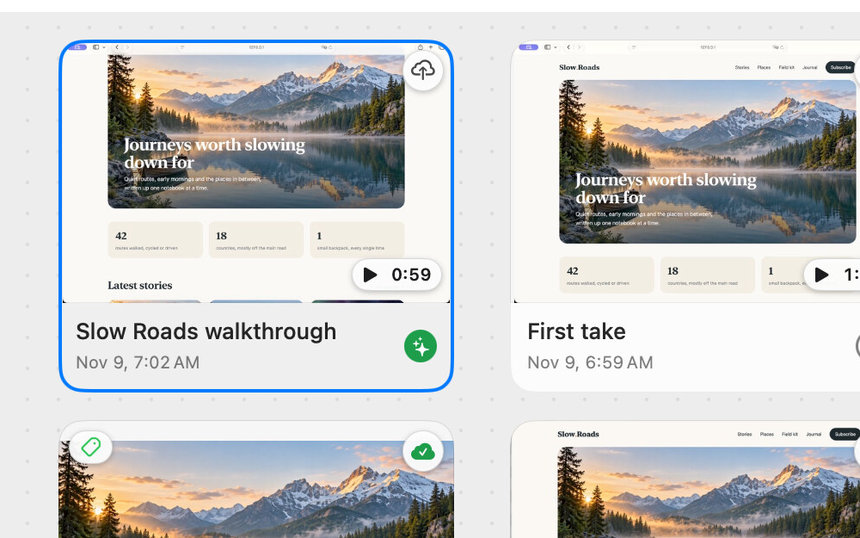
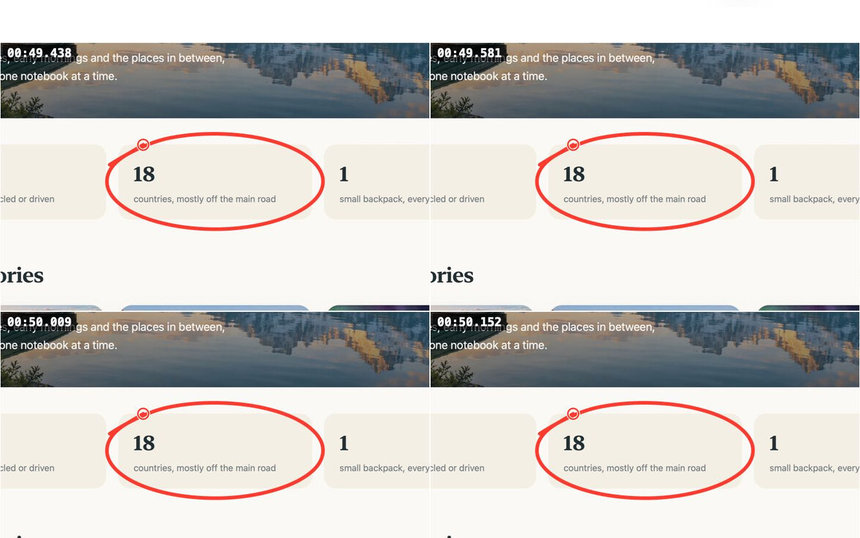
docs: show bug report frames in README gallery

diff --git a/docs/features.md b/docs/features.md
@@ -68,7 +68,7 @@ Opening Sukusho shows the Library; when it starts at login, it stays in the menu
 - **Remove Filler Words and Shorten Pauses:** under the transcript, **Remove Filler Words** counts the "um"s and "uh"s in your transcript's language, previews them struck through, and cuts them all at once ("like", "so" and "you know" only if you turn them on). **Shorten Pauses** cuts silences longer than a second down to a short beat, but leaves any pause in which something happens on screen: a click, a key, a scroll, a pen stroke, the pointer moving, or the picture changing, as when you type. Captions and chapters follow, and one Undo puts everything back.
 - **Output:** export the finished video as MOV, MP4 or GIF, export its audio, or click **Upload** to send it to your Worker and copy the link. Movie exports use HEVC unless you choose H.264; uploads and shares are always H.264, so they play in every browser.
 
-<a href="screenshots/agent-prompt.jpg"><img src="screenshots/thumbs/agent-prompt.jpg" alt="A selected recording with a green Bug Report marker in the Library" width="620"></a>
+<a href="screenshots/agent-prompt.jpg"><img src="screenshots/thumbs/agent-prompt.jpg" alt="Four bug report frames with a red pen loop and ringed pointer" width="620"></a>
 
 - **Bug Report**, under **Bug Reports & Guides** in Studio, in the Library's right-click menu, or by itself after a **Bug report** take, turns a recording into a walkthrough for a coding agent and a report for a person, in one folder. It copies a line asking an agent to read `prompt.md` and shows the person's report in Finder. `prompt.md` names the app that was in front when it started and the screen's pixel scale, and lists each click, pressed shortcut, pointer rest, scroll and pen stroke, with what was said, a still of the whole screen at each moment and a strip of frames around it. Stills and strips come from the recording itself, with the pointer ringed and the pen strokes drawn in, so click positions match them and the export takes seconds: cuts and speed changes apply, Studio's zoom, crop, background, camera and redactions don't. Clicks on Sukusho's recording bar (Stop, Pause, the pen) and the pause on a button before clicking it are left out.
   - The report for people is in the folder's `Bug Report` folder: `bug-report.html` holds its images and opens on its own, so it's the file to send, and `bug-report.md` with `images/` is for Jira, Linear or GitHub. It gives the environment (the app and its version, macOS and the screen's scale), the steps to reproduce (without pointer rests, which the prompt keeps), what happened from the narration, the take's app log when it has one, and the stills. An agent's export through Agent access writes it too, but leaves Finder alone.

diff --git a/README.md b/README.md
@@ -40,7 +40,7 @@ Click a picture to see it full size.
   <tr>
     <td valign="top"><a href="docs/screenshots/library-background.jpg"><img src="docs/screenshots/thumbs/library-background.jpg" alt="Sky wallpaper behind the Library capture grid" width="100%"></a><br><b>Custom Library backgrounds</b></td>
     <td valign="top"><a href="docs/screenshots/library.jpg"><img src="docs/screenshots/thumbs/library.jpg" alt="The Library capture grid and search" width="100%"></a><br><b>Library</b> with search inside captures</td>
-    <td valign="top"><a href="docs/screenshots/agent-prompt.jpg"><img src="docs/screenshots/thumbs/agent-prompt.jpg" alt="A selected recording with a green Bug Report marker" width="100%"></a><br><b>Bug reports</b> for people and coding agents, and <b>how-to guides</b></td>
+    <td valign="top"><a href="docs/screenshots/agent-prompt.jpg"><img src="docs/screenshots/thumbs/agent-prompt.jpg" alt="Four bug report frames with a red pen loop and ringed pointer" width="100%"></a><br><b>Bug reports</b> for people and coding agents, and <b>how-to guides</b></td>
   </tr>
 </table>
 
